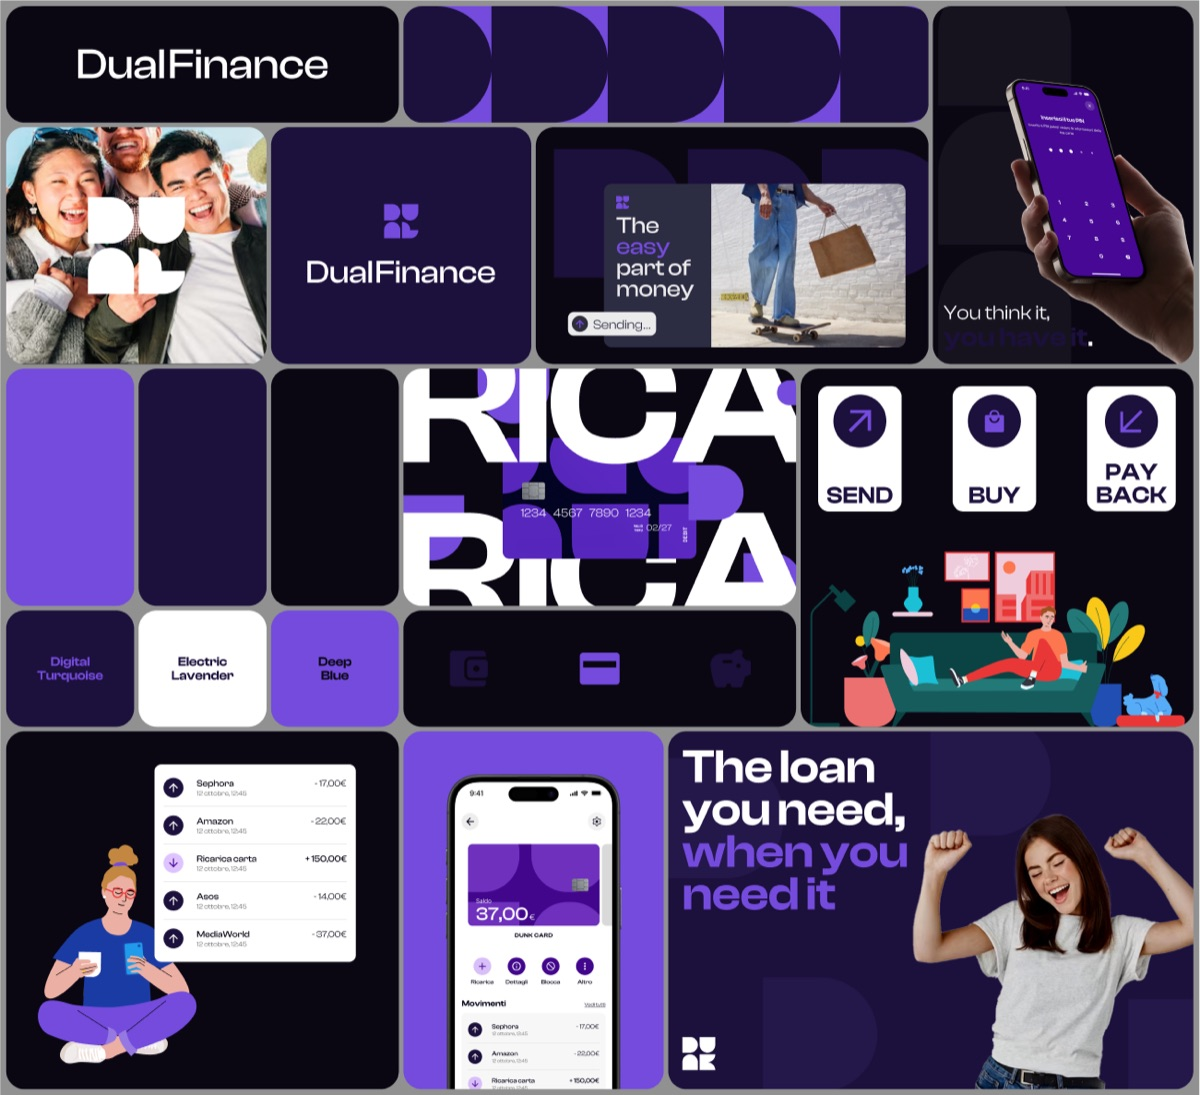
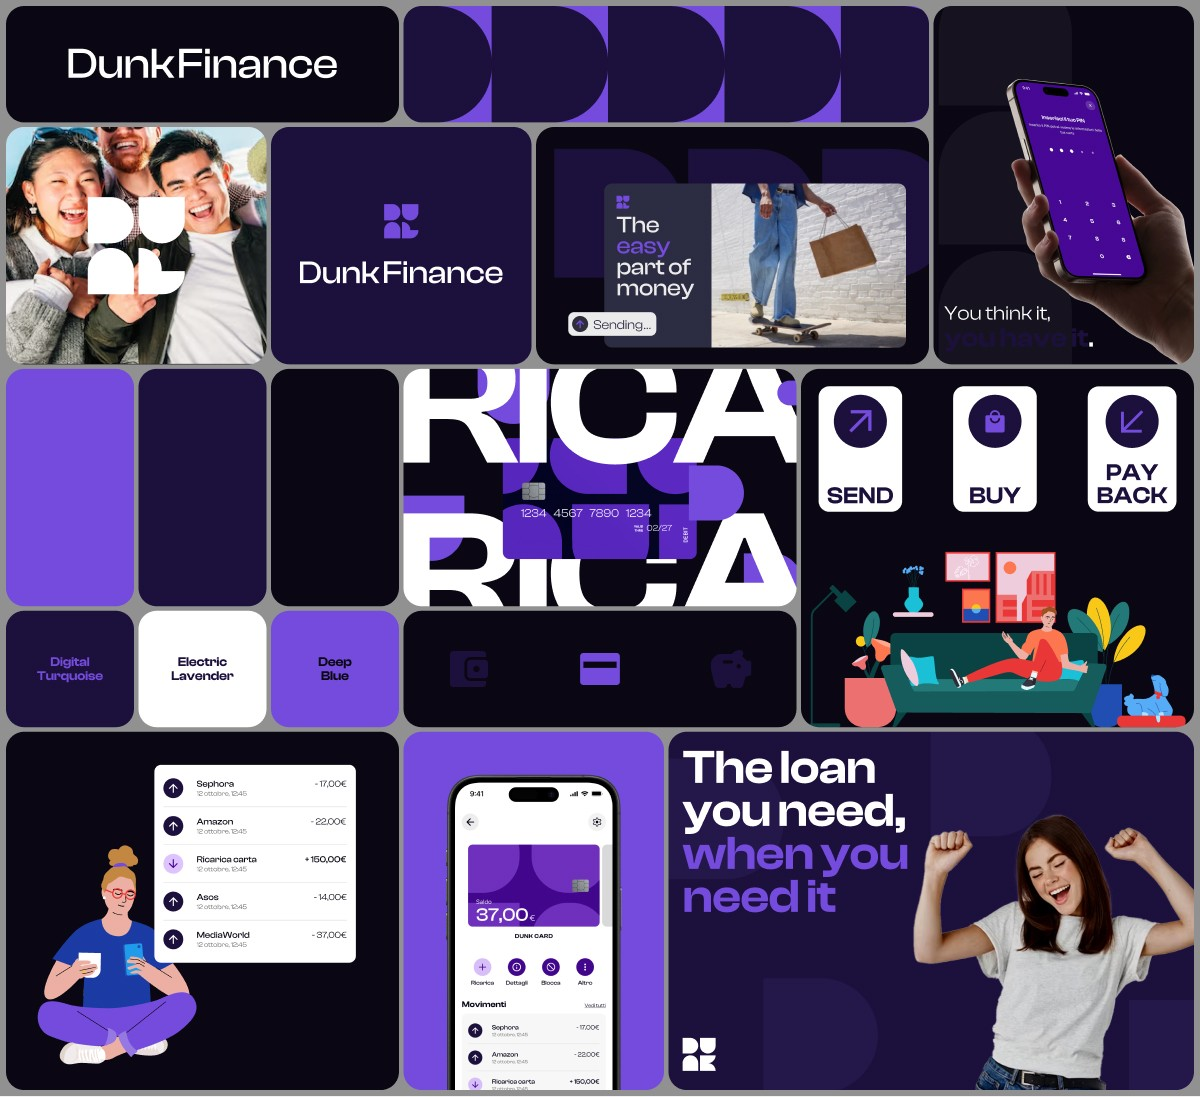
Dual Finance -> Dunk Finance, e hero e detail aggiornate
Rinominato il progetto in tutto il file: titolo, voce di navigazione e testi
alternativi delle immagini.

Immagini nuove, ricompresse dagli export originali: dunk-hero.webp 58 KB
(era 926 KB) e dunk-detail.jpg 205 KB (era 672 KB). Il hero e' grafica a
tinte piatte, quindi l'export era praticamente non compresso. Controllati i
ritagli al 400%: nessun artefatto, scostamento medio 0,43/255 sul hero e
1,13/255 sul detail.

Rimosso dunk-hero.jpg, la vecchia hero di Dual Finance, ora non piu'
referenziata: il file che il sito cercava (dunk-hero.webp) non esisteva,
quindi quell'immagine era rotta.

Il link al CV passa all'URL assoluto: sorgente e file pubblicato sono ora lo
stesso file, non piu' due copie da tenere allineate.

diff --git a/index.html b/index.html
@@ -936,7 +936,7 @@
 <nav class="topnav">
   <div class="nav-items">
     <div class="nav-items-inner">
-      <button class="nav-item" data-target="dual" aria-label="Dual Finance"><span class="nav-label">Dual Finance</span><svg class="nav-icon" viewBox="0 0 384 385" fill="currentColor" xmlns="http://www.w3.org/2000/svg" aria-hidden="true"><path d="M0 365C0 376.046 8.95431 385 20 385H192C298.039 385 384 298.815 384 192.5C384 86.1852 298.039 0 192 0H20C8.95431 0 0 8.95431 0 20V365Z"/></svg></button>
+      <button class="nav-item" data-target="dual" aria-label="Dunk Finance"><span class="nav-label">Dunk Finance</span><svg class="nav-icon" viewBox="0 0 384 385" fill="currentColor" xmlns="http://www.w3.org/2000/svg" aria-hidden="true"><path d="M0 365C0 376.046 8.95431 385 20 385H192C298.039 385 384 298.815 384 192.5C384 86.1852 298.039 0 192 0H20C8.95431 0 0 8.95431 0 20V365Z"/></svg></button>
       <button class="nav-item" data-target="multiservice" aria-label="MultiService"><span class="nav-label">MultiService</span><svg class="nav-icon" viewBox="0 0 522 384" fill="currentColor" xmlns="http://www.w3.org/2000/svg" aria-hidden="true"><path d="M520.399 355.732C525.908 368.908 516.228 383.445 501.947 383.445H20.022C5.74049 383.445 -3.93879 368.908 1.56932 355.732L145.136 12.2894C151.707 -3.43011 173.668 -4.25982 181.407 10.9191L243.166 132.057C250.586 146.612 271.382 146.612 278.802 132.058L340.563 10.9186C348.301 -4.26016 370.262 -3.43033 376.833 12.2892L520.399 355.732Z"/></svg></button>
       <button class="nav-item" data-target="fastpay" aria-label="FastPay"><span class="nav-label">FastPay</span><svg class="nav-icon" viewBox="0 0 385 385" fill="currentColor" xmlns="http://www.w3.org/2000/svg" aria-hidden="true"><path d="M385 125C385 136.046 376.046 145 365 145H310C298.954 145 290 153.954 290 165V185C290 196.046 298.954 205 310 205H365C376.046 205 385 213.954 385 225V277C385 288.046 376.046 297 365 297H310C298.954 297 290 305.954 290 317V365C290 376.046 281.046 385 270 385H20C8.9543 385 0 376.046 0 365V20C0 8.95431 8.95431 0 20 0H365C376.046 0 385 8.95431 385 20V125Z"/></svg></button>
       <button class="nav-item" data-target="legal" aria-label="Legal AI"><span class="nav-label">Legal AI</span><svg class="nav-icon" viewBox="0 0 385 385" fill="currentColor" xmlns="http://www.w3.org/2000/svg" aria-hidden="true"><path d="M233 0C244.046 0 253 8.95431 253 20V112C253 123.046 261.954 132 273 132H365C376.046 132 385 140.954 385 152V365C385 376.046 376.046 385 365 385H20C8.95431 385 0 376.046 0 365V20C0 8.95431 8.95431 0 20 0H233Z"/></svg></button>
@@ -1074,11 +1074,11 @@
 
     <section class="project-panel" id="dual" style="--accent: var(--c-dual)">
       <div class="project-hero-panel">
-        <img class="hero-bg" src="portfolio-assets/dunk-hero.jpg" alt="Identità visiva Dual Finance">
+        <img class="hero-bg" src="portfolio-assets/dunk-hero.webp" alt="Identità visiva Dunk Finance">
         <div class="hero-scrim"></div>
         <div class="hero-content">
           <p class="project-eyebrow">Branding • UX/UI</p>
-          <h1 class="project-title">Dual Finance</h1>
+          <h1 class="project-title">Dunk Finance</h1>
           <p class="project-hook">Un'identità e un'app di microprestiti,<br>costruite da zero.</p>
         </div>
         <div class="scroll-hint" aria-hidden="true">
@@ -1091,7 +1091,7 @@
         <div class="project-cards">
         <div class="project-row">
           <div class="project-row-label">Brief</div>
-          <div class="project-row-content">Dual Finance si proponeva come un servizio di microprestiti per un target 25-45 anni, con i flussi di backend già definiti. Serviva un'applicazione costruita sui bisogni reali del target, più due obiettivi secondari: un onboarding che favorisse la conversione dei prospect, e la creazione di un logo con relativa identità visiva.</div>
+          <div class="project-row-content">Dunk Finance si proponeva come un servizio di microprestiti per un target 25-45 anni, con i flussi di backend già definiti. Serviva un'applicazione costruita sui bisogni reali del target, più due obiettivi secondari: un onboarding che favorisse la conversione dei prospect, e la creazione di un logo con relativa identità visiva.</div>
         </div>
         <div class="project-row">
           <div class="project-row-label">Processo</div>
@@ -1104,11 +1104,11 @@
         </div>
 
         <div class="gallery">
-          <img class="wide" src="portfolio-assets/dunk-hero.jpg" alt="Identità visiva Dual Finance">
+          <img class="wide" src="portfolio-assets/dunk-hero.webp" alt="Identità visiva Dunk Finance">
           <video src="portfolio-assets/dual-boost.mp4" autoplay loop muted playsinline></video>
-          <img src="portfolio-assets/dunk-detail.jpg" alt="Tavola di brand identity Dual Finance">
-          <img src="portfolio-assets/dual-app1.jpg" alt="Schermate app Dual Finance">
-          <img class="wide" src="portfolio-assets/dual-app2.jpg" alt="Proposta UI Dual Finance">
+          <img src="portfolio-assets/dunk-detail.jpg" alt="Tavola di brand identity Dunk Finance">
+          <img src="portfolio-assets/dual-app1.jpg" alt="Schermate app Dunk Finance">
+          <img class="wide" src="portfolio-assets/dual-app2.jpg" alt="Proposta UI Dunk Finance">
         </div>
       </div>
       </div>
